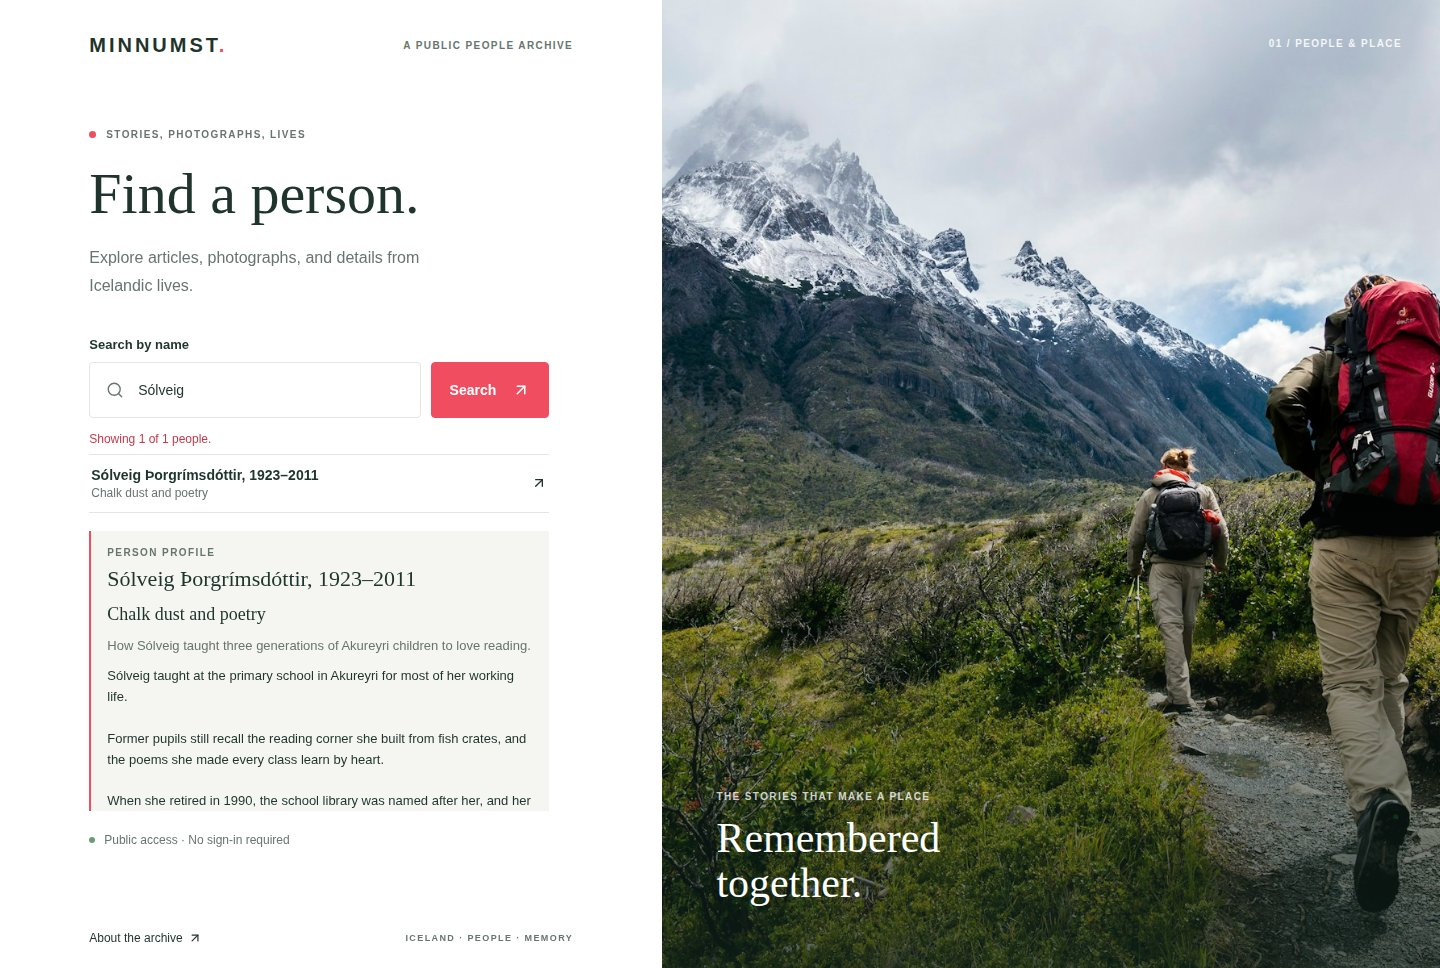
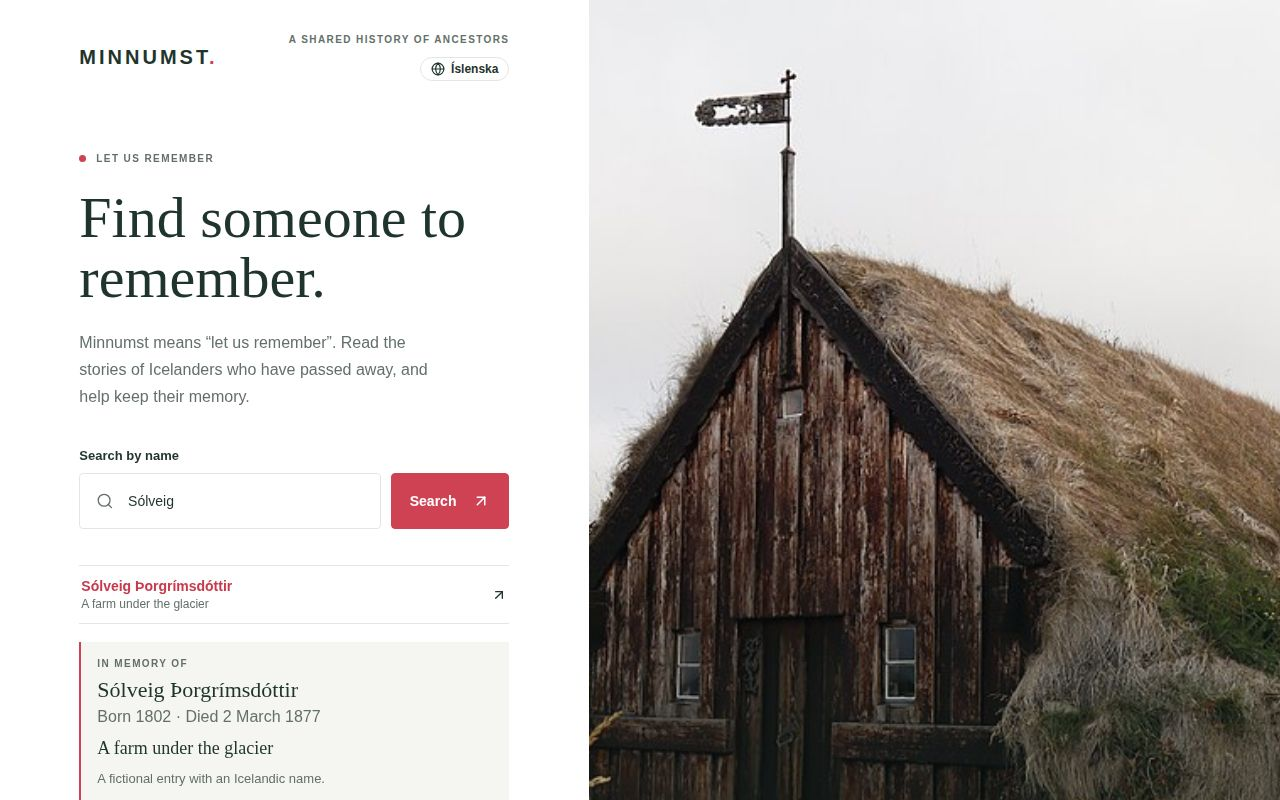
docs: update the screenshots and describe input handling and languages

diff --git a/README.md b/README.md
@@ -11,19 +11,20 @@ Minnumst has a public archive for reading stories, an editorial desk for writing
 It is self-hosted with OpenTofu, Ansible and Docker Compose behind Traefik, with Authentik guarding the editorial desk and everything editors do, on a host hardened against the CIS and NIST security frameworks.
 
 <p align="center">
-  <img src="docs/assets/screenshot-web.jpg" alt="Public archive on desktop: name search with a person's profile and story" width="72%">
+  <img src="docs/assets/screenshot-web.jpg" alt="Public archive: search beside a photograph of a turf-roofed church" width="72%">
   &nbsp;
   <img src="docs/assets/screenshot-mobile.jpg" alt="Public archive on a phone: search result and story" width="22%">
 </p>
 <p align="center">
-  <img src="docs/assets/screenshot-admin.png" alt="Editorial desk: list of pages and the revision history of one story" width="95%">
+  <img src="docs/assets/screenshot-admin.png" alt="Editorial desk: list of people and the version history of one story" width="95%">
 </p>
-<p align="center"><sub>The public archive (desktop and phone) and the editorial desk with a story's revision history. All people and stories shown are fictional sample data.</sub></p>
+<p align="center"><sub>The public archive (desktop and phone) and the editorial desk with a story's version history. All people and stories shown are fictional sample data.</sub></p>
 
 ## Project goals
 
 - **Preserve stories for generations.** Every version of a story is kept, with who saved it and why. Readers see the current one, and editors can compare versions and publish an earlier one again.
 - **Let anyone contribute.** Visitors can suggest an edit without an account, and editors review every suggestion before it is published. The archive never asks who they are.
+- **Speak Icelandic first.** The archive opens in Icelandic, its search forgives how Icelandic letters are typed, and English is one click away.
 - **Protect people.** The archive only ever holds people who died more than five years ago, under the rules in [Data protection and sources](#data-protection-and-sources).
 - **Build to recognised security frameworks.** The host follows the CIS Ubuntu Linux 24.04 LTS Benchmark and NIST SP 800-53 Rev. 5, and the containers the CIS Docker Benchmark and NIST SP 800-190. Controls cite their sections in the code, and each deviation is documented with its reason. These are the baselines the project follows, not a certification.
 - **Verify, don't just configure.** CI applies the hardening to a real Ubuntu VM, requires a second run to change nothing, and scores the result with Lynis. See [Security and networking](#security-and-networking).
@@ -100,6 +101,7 @@ Every host setting in [`deploy/`](deploy/) cites the CIS section and NIST contro
 - **Accessible.** Text meets WCAG 2.2 AA contrast, and every browser test runs an axe audit that fails on serious problems.
 - **A hardened database.** PostgreSQL authenticates every connection with SCRAM-SHA-256. Migrations run as a separate role that owns the schema; the API connects as a runtime role that can't change the schema and can only read and insert story revisions, so history is append-only in the database itself, verified by a test that tries to rewrite it. The schema enforces the rules too: native UUID keys, a unique name and dates for each person, positive revision numbers, and foreign keys that refuse to delete a person with a story or a story with revisions.
 - **Privacy-preserving logs.** Every service logs JSON with a request ID that follows a request from the browser through the API. Query strings, request bodies, credentials and person slugs are never logged.
+- **Consistent, harmless input.** All text is normalised to composed Unicode on the way in, and control and text-direction characters are removed. It reaches SQL only as bound parameters and pages only as escaped text, so tests can put SQL and markup in every field and find them stored as plain text.
 - **Append-only data.** Story versions are immutable: no route edits or deletes them, restoring adds a new version, and a person with a story can't be deleted, only hidden from the public.
 
 **Host**

diff --git a/CONTRIBUTING.md b/CONTRIBUTING.md
@@ -8,6 +8,7 @@ Thanks for contributing to Minnumst. Minnumst holds stories about people's famil
 - Never commit credentials, `.env` files, vault passwords, decrypted secrets, real inventories, or local databases. The root `.gitignore` covers the usual paths; check `git status` before committing anyway.
 - Follow the [data protection rules](README.md#data-protection-and-sources) in every change and every sample. Only people who died more than five years and two months ago or were born at least 128 years ago, no living people (including relatives named in obituaries), nothing confidential, and links with our own summaries instead of copied text. Test data and screenshots stay fictional.
 - Story history is immutable: every save appends a version, and restoring publishes an old text as a new version. Don't add routes or UI that overwrite or delete versions.
+- Interface text lives in `web/src/i18n.ts` in Icelandic and English, and a test fails if either lacks a text. No Icelandic sentence puts a name inside it, because names inflect.
 - Update documentation when behaviour, setup or operator steps change. Include screenshots for visual changes.
 
 ## Setup

diff --git a/TODO.md b/TODO.md
@@ -63,7 +63,6 @@ Fill the archive from open sources while keeping to the [data protection rules](
 ## `web/`
 
 - [ ] Show portraits once the API's media contract exists.
-- [ ] Replace the landing photograph with one taken in Iceland.
 
 ## `admin/`
 
